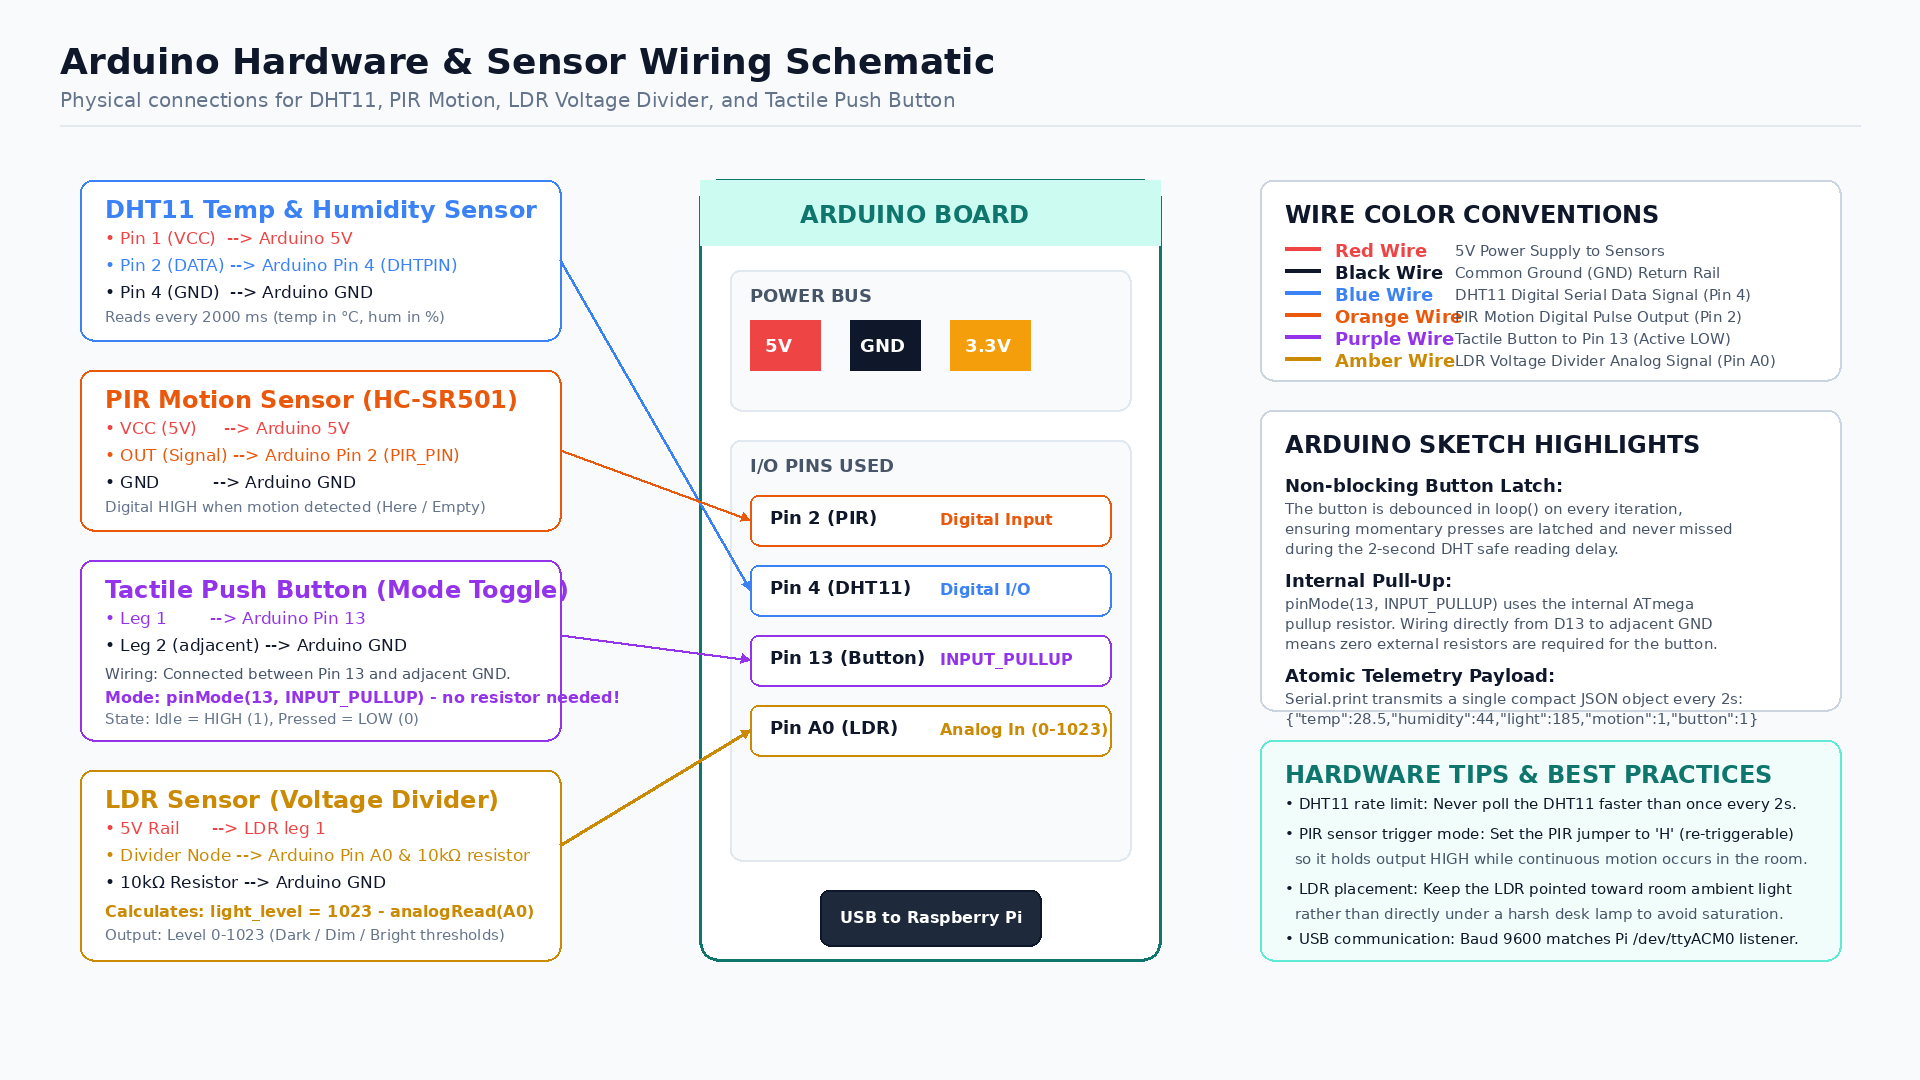
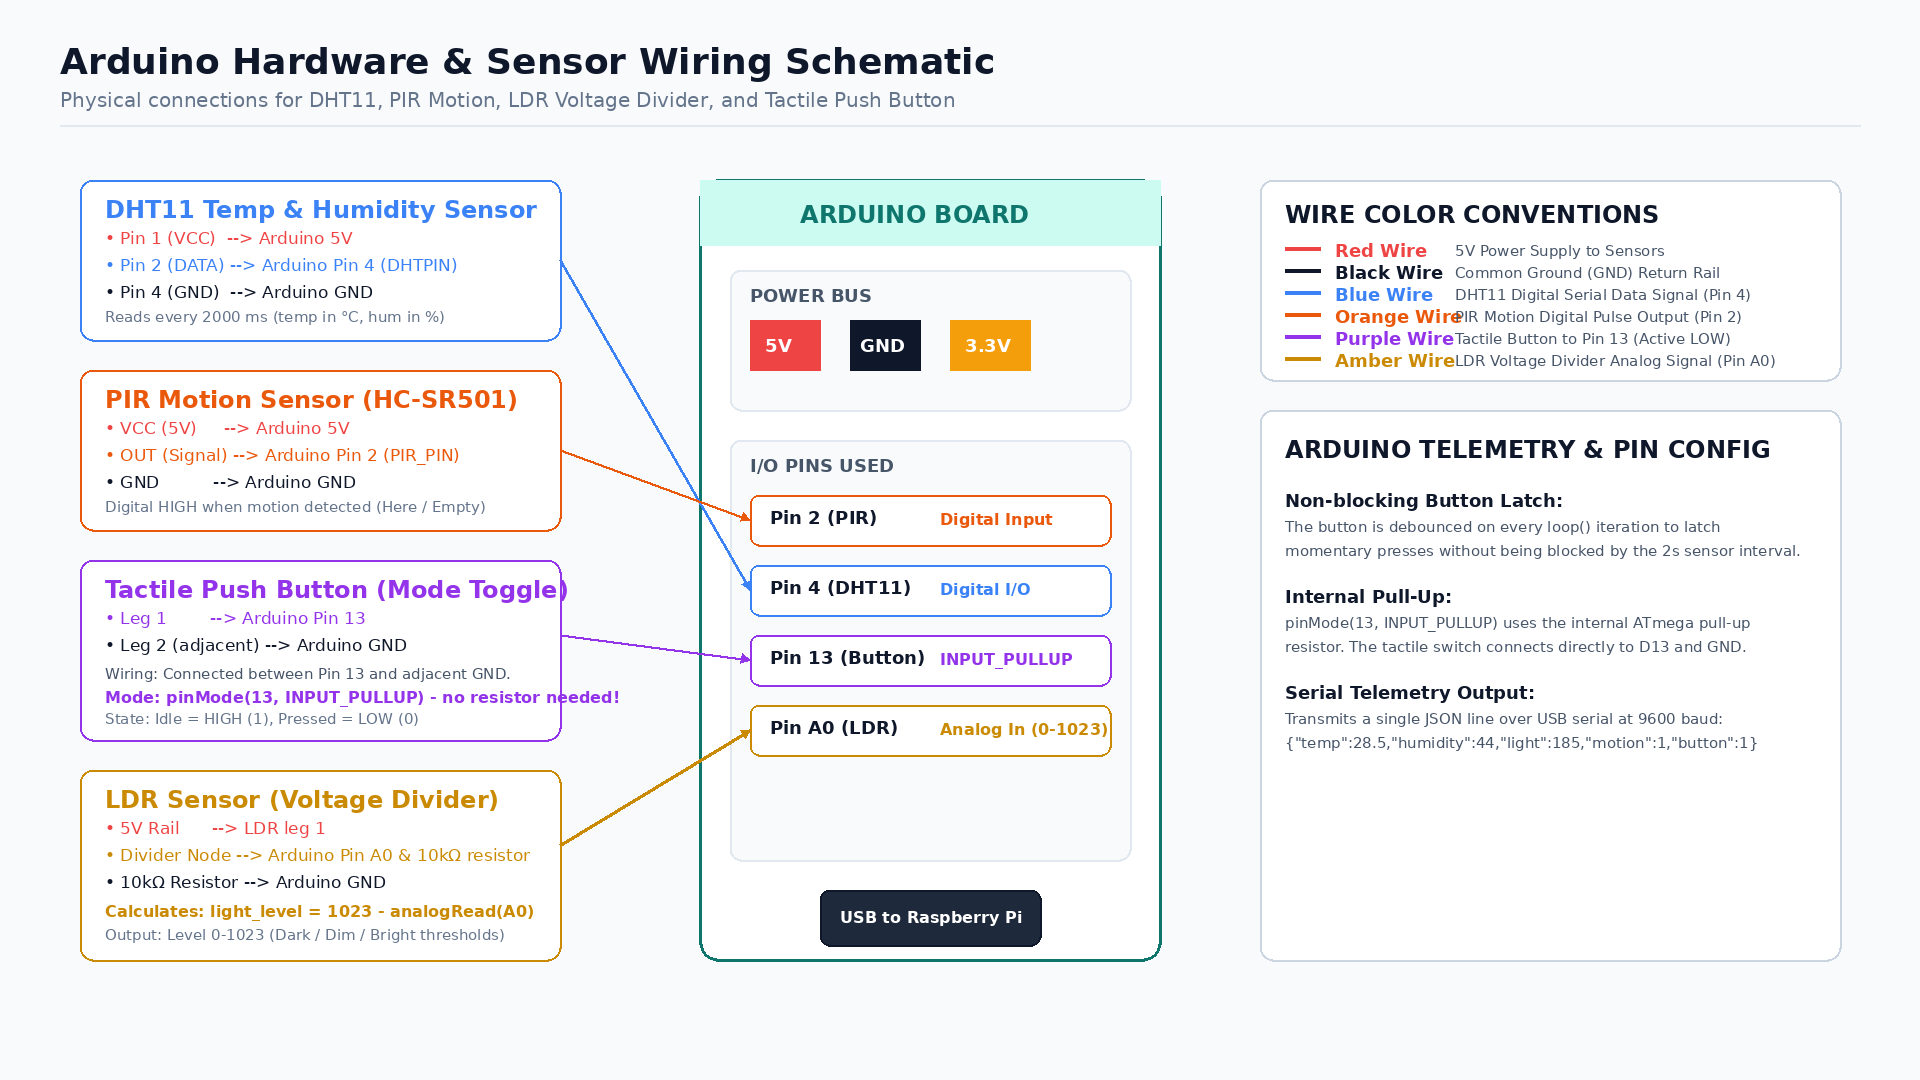
Remove unnecessary hardware tips box from schematic

Changed region(s): [[0.6562, 0.3972, 0.9375, 0.8861]]

diff --git a/tools/draw_schematics.py b/tools/draw_schematics.py
@@ -378,40 +378,28 @@ def generate_arduino_schematic():
         wy += 22
 
     # Arduino Sketch Summary Box
-    draw_box(d, [rx0, 410, rx0 + rw, 710], fill=(255, 255, 255), outline=(203, 213, 225), radius=12)
-    d.text((rx0 + 25, 430), "ARDUINO SKETCH HIGHLIGHTS", font=f_header, fill=(15, 23, 42))
+    draw_box(d, [rx0, 410, rx0 + rw, 960], fill=(255, 255, 255), outline=(203, 213, 225), radius=12)
+    d.text((rx0 + 25, 435), "ARDUINO TELEMETRY & PIN CONFIG", font=f_header, fill=(15, 23, 42))
 
     notes = [
         ("Non-blocking Button Latch:", 
-         "The button is debounced in loop() on every iteration,\n"
-         "ensuring momentary presses are latched and never missed\n"
-         "during the 2-second DHT safe reading delay."),
+         "The button is debounced on every loop() iteration to latch\n"
+         "momentary presses without being blocked by the 2s sensor interval."),
         ("Internal Pull-Up:", 
-         "pinMode(13, INPUT_PULLUP) uses the internal ATmega\n"
-         "pullup resistor. Wiring directly from D13 to adjacent GND\n"
-         "means zero external resistors are required for the button."),
-        ("Atomic Telemetry Payload:", 
-         "Serial.print transmits a single compact JSON object every 2s:\n"
+         "pinMode(13, INPUT_PULLUP) uses the internal ATmega pull-up\n"
+         "resistor. The tactile switch connects directly to D13 and GND."),
+        ("Serial Telemetry Output:", 
+         "Transmits a single JSON line over USB serial at 9600 baud:\n"
          "{\"temp\":28.5,\"humidity\":44,\"light\":185,\"motion\":1,\"button\":1}")
     ]
-    ny = 475
+    ny = 490
     for htitle, hdesc in notes:
         d.text((rx0 + 25, ny), htitle, font=f_body_b, fill=(15, 23, 42))
-        ny += 25
+        ny += 28
         for line in hdesc.split("\n"):
             d.text((rx0 + 25, ny), line, font=f_small, fill=(71, 85, 105))
-            ny += 20
-        ny += 10
-
-    # Safety & Best Practices Box
-    draw_box(d, [rx0, 740, rx0 + rw, 960], fill=(240, 253, 250), outline=(94, 234, 212), radius=12)
-    d.text((rx0 + 25, 760), "HARDWARE TIPS & BEST PRACTICES", font=f_header, fill=(15, 118, 110))
-    d.text((rx0 + 25, 795), "• DHT11 rate limit: Never poll the DHT11 faster than once every 2s.", font=f_small, fill=(15, 23, 42))
-    d.text((rx0 + 25, 825), "• PIR sensor trigger mode: Set the PIR jumper to 'H' (re-triggerable)", font=f_small, fill=(15, 23, 42))
-    d.text((rx0 + 25, 850), "  so it holds output HIGH while continuous motion occurs in the room.", font=f_small, fill=(71, 85, 105))
-    d.text((rx0 + 25, 880), "• LDR placement: Keep the LDR pointed toward room ambient light", font=f_small, fill=(15, 23, 42))
-    d.text((rx0 + 25, 905), "  rather than directly under a harsh desk lamp to avoid saturation.", font=f_small, fill=(71, 85, 105))
-    d.text((rx0 + 25, 930), "• USB communication: Baud 9600 matches Pi /dev/ttyACM0 listener.", font=f_small, fill=(15, 23, 42))
+            ny += 24
+        ny += 20
 
     out_path = os.path.join(DOCS, "arduino-schematic.png")
     img.save(out_path)
